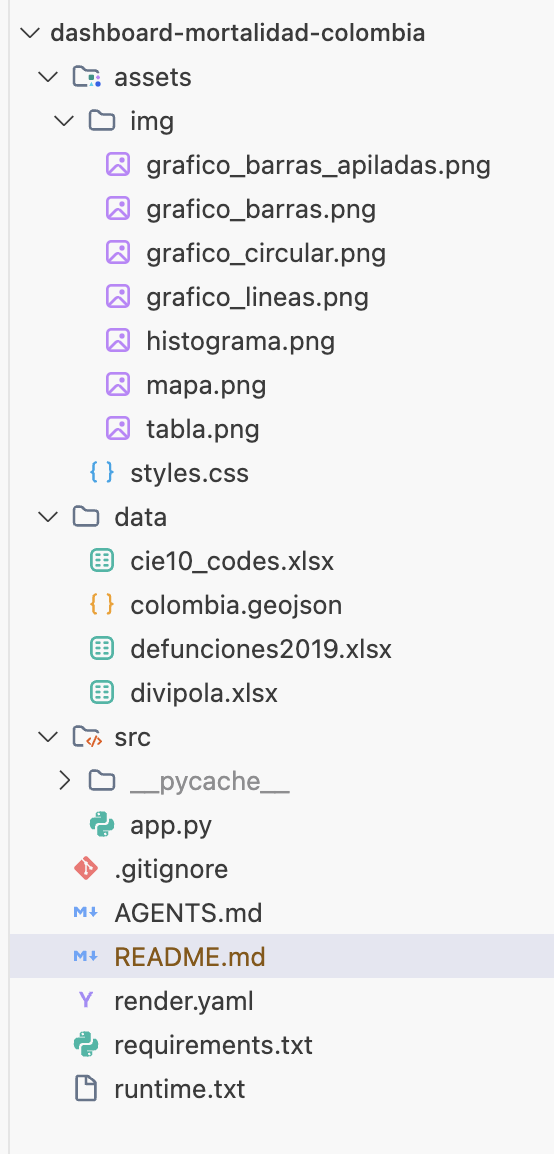
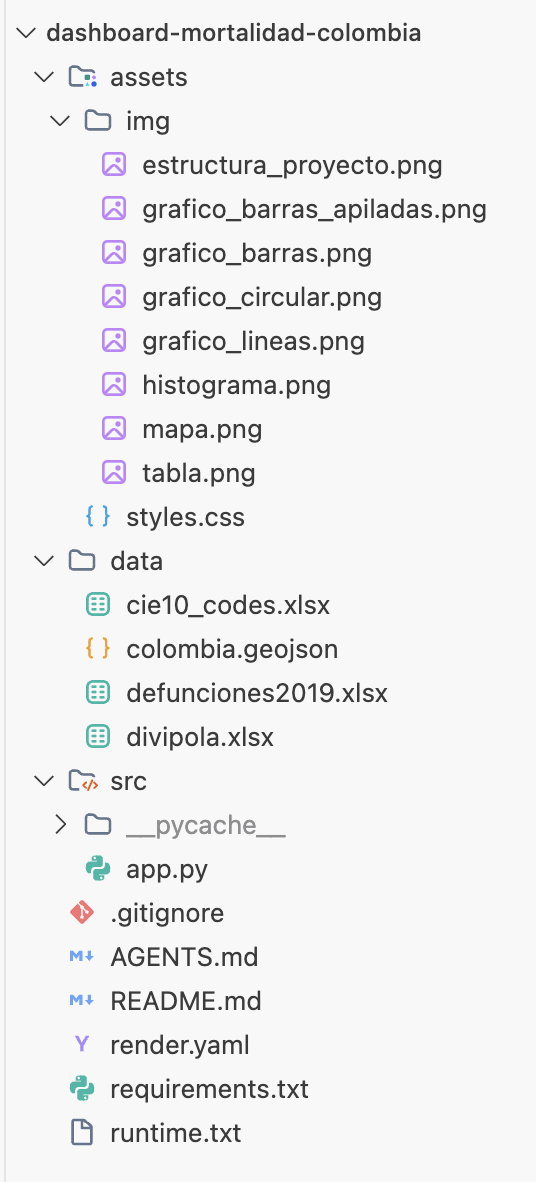
docs: resize project structure diagram in README for better readability

Changed region(s): [[0.0896, 0.0, 0.9254, 0.9671], [0.0896, 0.0936, 0.1194, 0.1248], [0.0299, 0.0, 0.0597, 0.0312]]

diff --git a/README.md b/README.md
@@ -17,7 +17,7 @@ dashboard-mortalidad-colombia/
 └── README.md # Documentación del proyecto
 
 <div align="center">
-  <img src="./assets/img/estructura_proyecto.png" alt="Dashboard de Mortalidad" width="600">
+  <img src="./assets/img/estructura_proyecto.png" alt="Dashboard de Mortalidad" width="200">
 </div>
 
 ## Requisitos
